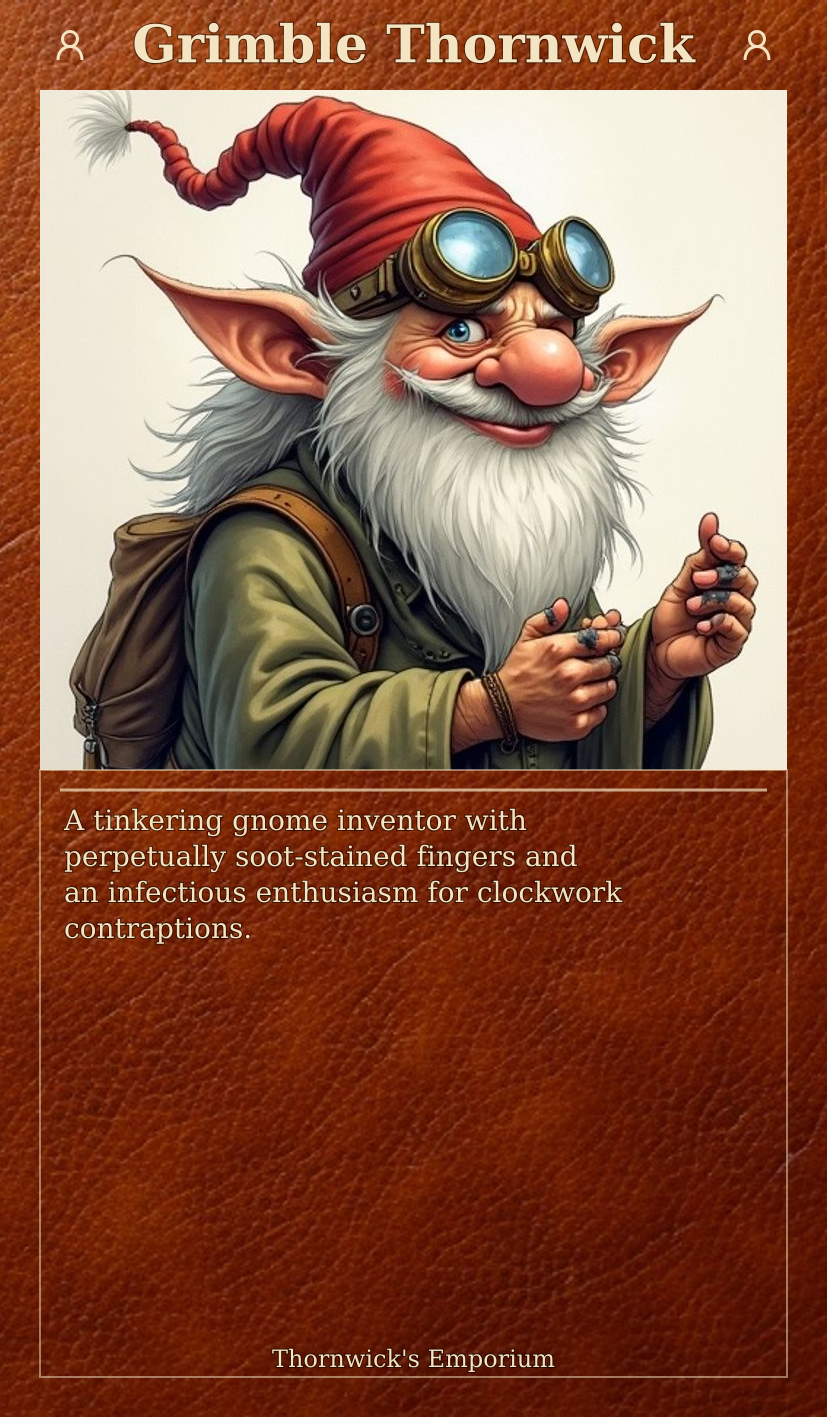
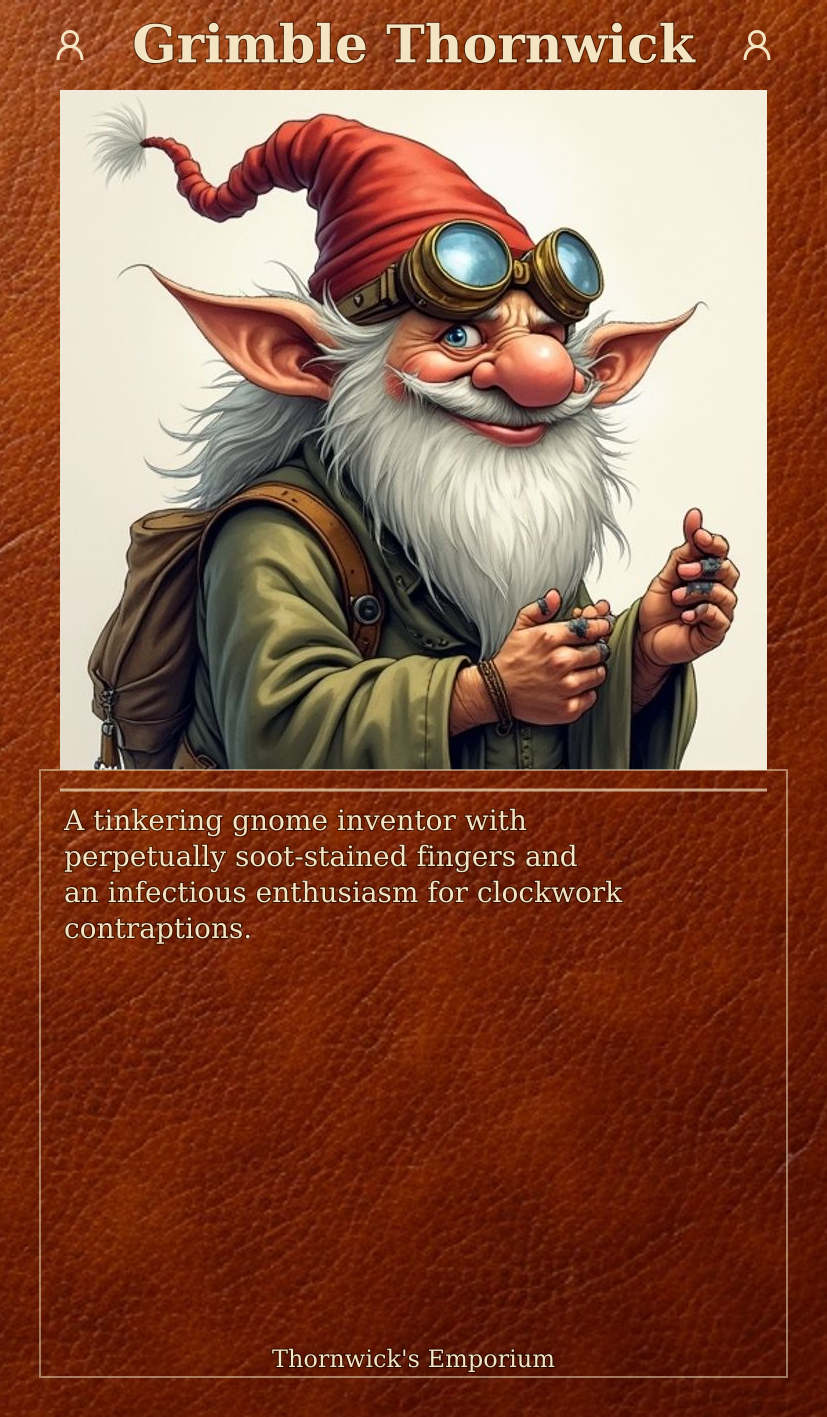
Add portrait padding to match text area width

Changed region(s): [[0.0302, 0.0621, 0.9674, 0.5589], [0.8464, 0.1863, 0.8767, 0.2174]]

diff --git a/packages/card-generator/scripts/generate-all-variants.js b/packages/card-generator/scripts/generate-all-variants.js
@@ -68,7 +68,9 @@ function textureOverlaySvg(opts = {}) {
 
   const textAreaTop = headerH + portraitH;
   const textAreaH = H - headerH - portraitH - B - (showFooter ? footerH : 0);
-  const portraitW = W - B * 2;
+  const portraitPadding = opts.portraitPadding || 20;
+  const portraitW = W - B * 2 - portraitPadding * 2;
+  const portraitX = B + portraitPadding;
 
   const iconY = (headerH - 36) / 2;
   const icons = showIcons ? `
@@ -132,9 +134,9 @@ function textureOverlaySvg(opts = {}) {
     const borderOffset = 4; // Larger offset so border is clearly visible
     const strokeW = 4;
     if (portraitCorners === 'rounded') {
-      portraitBorderSvg = `<rect x="${B - borderOffset}" y="${headerH - borderOffset}" width="${portraitW + borderOffset*2}" height="${portraitH + borderOffset*2}" rx="${cornerRadius + borderOffset}" fill="none" stroke="${textColor}" stroke-width="${strokeW}"/>`;
+      portraitBorderSvg = `<rect x="${portraitX - borderOffset}" y="${headerH - borderOffset}" width="${portraitW + borderOffset*2}" height="${portraitH + borderOffset*2}" rx="${cornerRadius + borderOffset}" fill="none" stroke="${textColor}" stroke-width="${strokeW}"/>`;
     } else {
-      portraitBorderSvg = `<rect x="${B - borderOffset}" y="${headerH - borderOffset}" width="${portraitW + borderOffset*2}" height="${portraitH + borderOffset*2}" fill="none" stroke="${textColor}" stroke-width="${strokeW}"/>`;
+      portraitBorderSvg = `<rect x="${portraitX - borderOffset}" y="${headerH - borderOffset}" width="${portraitW + borderOffset*2}" height="${portraitH + borderOffset*2}" fill="none" stroke="${textColor}" stroke-width="${strokeW}"/>`;
     }
   }
 
@@ -143,7 +145,7 @@ function textureOverlaySvg(opts = {}) {
   if (portraitCorners === 'rounded') {
     defs = `<defs>
       <clipPath id="portraitClip">
-        <rect x="${B}" y="${headerH}" width="${portraitW}" height="${portraitH}" rx="${cornerRadius}"/>
+        <rect x="${portraitX}" y="${headerH}" width="${portraitW}" height="${portraitH}" rx="${cornerRadius}"/>
       </clipPath>
     </defs>`;
   }
@@ -165,7 +167,9 @@ function textureOverlaySvg(opts = {}) {
 async function renderTextureCard(svg, portraitPath, outputPath, texturePath, opts = {}) {
   const headerH = opts.headerH || 90;
   const portraitH = opts.portraitH || 680;
-  const portraitW = W - B * 2;
+  const portraitPadding = opts.portraitPadding || 20; // Inset from border edges
+  const portraitW = W - B * 2 - portraitPadding * 2;
+  const portraitX = B + portraitPadding;
   const cornerRadius = opts.cornerRadius || 20;
   const roundedPortrait = opts.roundedPortrait || false;
 
@@ -190,7 +194,7 @@ async function renderTextureCard(svg, portraitPath, outputPath, texturePath, opt
 
   await sharp(texture)
     .composite([
-      { input: portrait, top: headerH, left: B },
+      { input: portrait, top: headerH, left: portraitX },
       { input: overlay, top: 0, left: 0 }
     ])
     .png()
